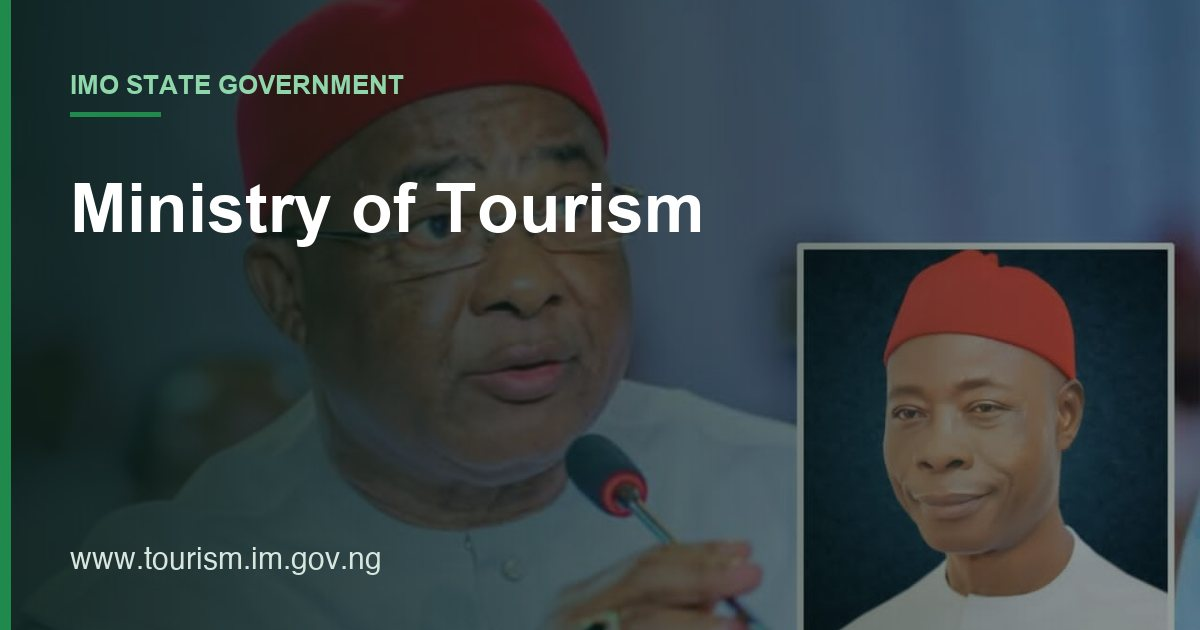
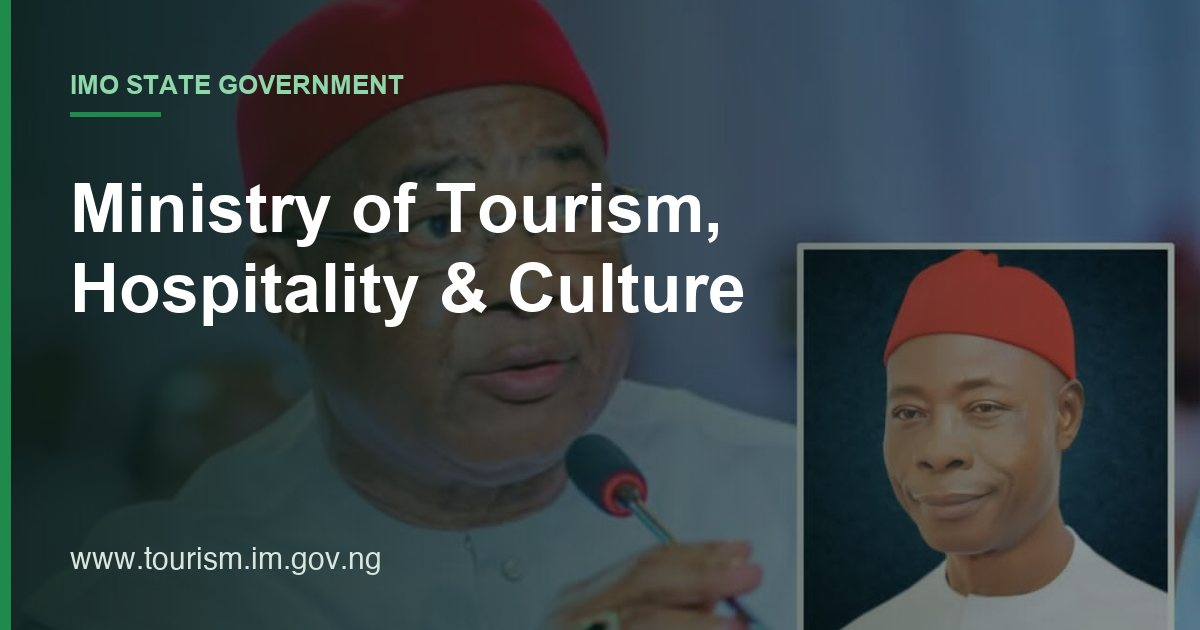
SEO sprint 3: titles and descriptions from real service content; correct official ministry name
- Home/about/services metadata written from the site's own content and services
- Use the official ministry names shown on each site; regenerate OG image
- Shorter page titles so keywords come first

Changed region(s): [[0.0617, 0.3921, 0.6167, 0.5127], [0.5858, 0.3619, 0.6167, 0.3921]]

diff --git a/src/lib/seo.ts b/src/lib/seo.ts
@@ -2,9 +2,9 @@ import type { Metadata } from "next";
 
 // Verified production domain (Vercel project domain). Override per environment if needed.
 export const SITE_URL = (process.env.NEXT_PUBLIC_SITE_URL || "https://tourism.im.gov.ng").replace(/\/$/, "");
-export const SITE_NAME = "Ministry of Tourism";
+export const SITE_NAME = "Ministry of Tourism, Hospitality and Culture";
 export const DEFAULT_DESCRIPTION =
-  "Official website of the Ministry of Tourism, Imo State Government: services, departments, projects, news and events.";
+  "Official website of the Ministry of Tourism, Hospitality and Culture, Imo State Government: services, departments, projects, news and events.";
 export const OG_IMAGE_PATH = "/og-image.jpg";
 
 type Title = NonNullable<Metadata["title"]>;

diff --git a/src/app/page.tsx b/src/app/page.tsx
@@ -13,8 +13,8 @@ import { contentfulService } from "../../lib/contentful";
 import { pageMetadata } from "@/lib/seo";
 
 export const metadata = pageMetadata({
-  title: { absolute: "Ministry of Tourism | Imo State Government" },
-  description: "Official website of the Ministry of Tourism, Imo State Government: services, departments, projects, news and events.",
+  title: { absolute: "Imo State Ministry of Tourism, Hospitality and Culture" },
+  description: "Discover Imo State: Oguta Lake, Njaba River, Mbari Cultural Center, the Iri Ji festival and Imo Carnival, from the Imo State tourism ministry.",
   path: "/",
 });
 

diff --git a/src/app/services/page.tsx b/src/app/services/page.tsx
@@ -5,8 +5,8 @@ import ServicesSection from "./ServicesSection";
 import { pageMetadata } from "@/lib/seo";
 
 export const metadata = pageMetadata({
-  title: "Services",
-  description: "Services offered by the Ministry of Tourism of the Imo State Government.",
+  title: "Tourism, Culture and Creative Arts Services",
+  description: "Oguta Lake, Njaba River, Mbari Cultural Center and Owerri Amusement Park, plus cultural festivals and creative arts support in Imo State.",
   path: "/services",
 });
 

diff --git a/src/app/contact-us/page.tsx b/src/app/contact-us/page.tsx
@@ -9,7 +9,7 @@ import { pageMetadata } from "@/lib/seo";
 
 export const metadata = pageMetadata({
   title: "Contact Us",
-  description: "Contact the Ministry of Tourism, Imo State Government: office location and ways to reach the ministry.",
+  description: "Contact the Ministry of Tourism, Hospitality and Culture, Imo State Government: office location and ways to reach the ministry.",
   path: "/contact-us",
 });
 

diff --git a/src/app/about-us/page.tsx b/src/app/about-us/page.tsx
@@ -12,7 +12,7 @@ import { pageMetadata } from "@/lib/seo";
 
 export const metadata = pageMetadata({
   title: "About Us",
-  description: "About the Ministry of Tourism of the Imo State Government: who we are and what we do.",
+  description: "Mission, vision and departments of the Imo State ministry promoting tourism, preserving cultural heritage and developing the creative arts.",
   path: "/about-us",
 });
 

diff --git a/src/app/news/page.tsx b/src/app/news/page.tsx
@@ -8,7 +8,7 @@ import { pageMetadata } from "@/lib/seo";
 
 export const metadata = pageMetadata({
   title: "News",
-  description: "Latest news, announcements and updates from the Ministry of Tourism, Imo State.",
+  description: "Latest news, announcements and updates from the Ministry of Tourism, Hospitality and Culture, Imo State.",
   path: "/news",
 });
 

diff --git a/src/app/departments/page.tsx b/src/app/departments/page.tsx
@@ -6,7 +6,7 @@ import { pageMetadata } from "@/lib/seo";
 
 export const metadata = pageMetadata({
   title: "Departments",
-  description: "Departments and units of the Ministry of Tourism, Imo State Government.",
+  description: "Departments and units of the Ministry of Tourism, Hospitality and Culture, Imo State Government.",
   path: "/departments",
 });
 

diff --git a/src/app/media/page.tsx b/src/app/media/page.tsx
@@ -9,7 +9,7 @@ import { pageMetadata } from "@/lib/seo";
 
 export const metadata = pageMetadata({
   title: "Media Gallery",
-  description: "Photo and media gallery of the Ministry of Tourism, Imo State Government.",
+  description: "Photo and media gallery of the Ministry of Tourism, Hospitality and Culture, Imo State Government.",
   path: "/media",
 });
 

diff --git a/src/app/projects/page.tsx b/src/app/projects/page.tsx
@@ -8,7 +8,7 @@ import { pageMetadata } from "@/lib/seo";
 
 export const metadata = pageMetadata({
   title: "Projects",
-  description: "Projects and programmes of the Ministry of Tourism, Imo State Government.",
+  description: "Projects and programmes of the Ministry of Tourism, Hospitality and Culture, Imo State Government.",
   path: "/projects",
 });
 

diff --git a/src/app/events/page.tsx b/src/app/events/page.tsx
@@ -9,7 +9,7 @@ import { pageMetadata } from "@/lib/seo";
 
 export const metadata = pageMetadata({
   title: "Events",
-  description: "Events organised by the Ministry of Tourism, Imo State Government.",
+  description: "Events organised by the Ministry of Tourism, Hospitality and Culture, Imo State Government.",
   path: "/events",
 });
 
